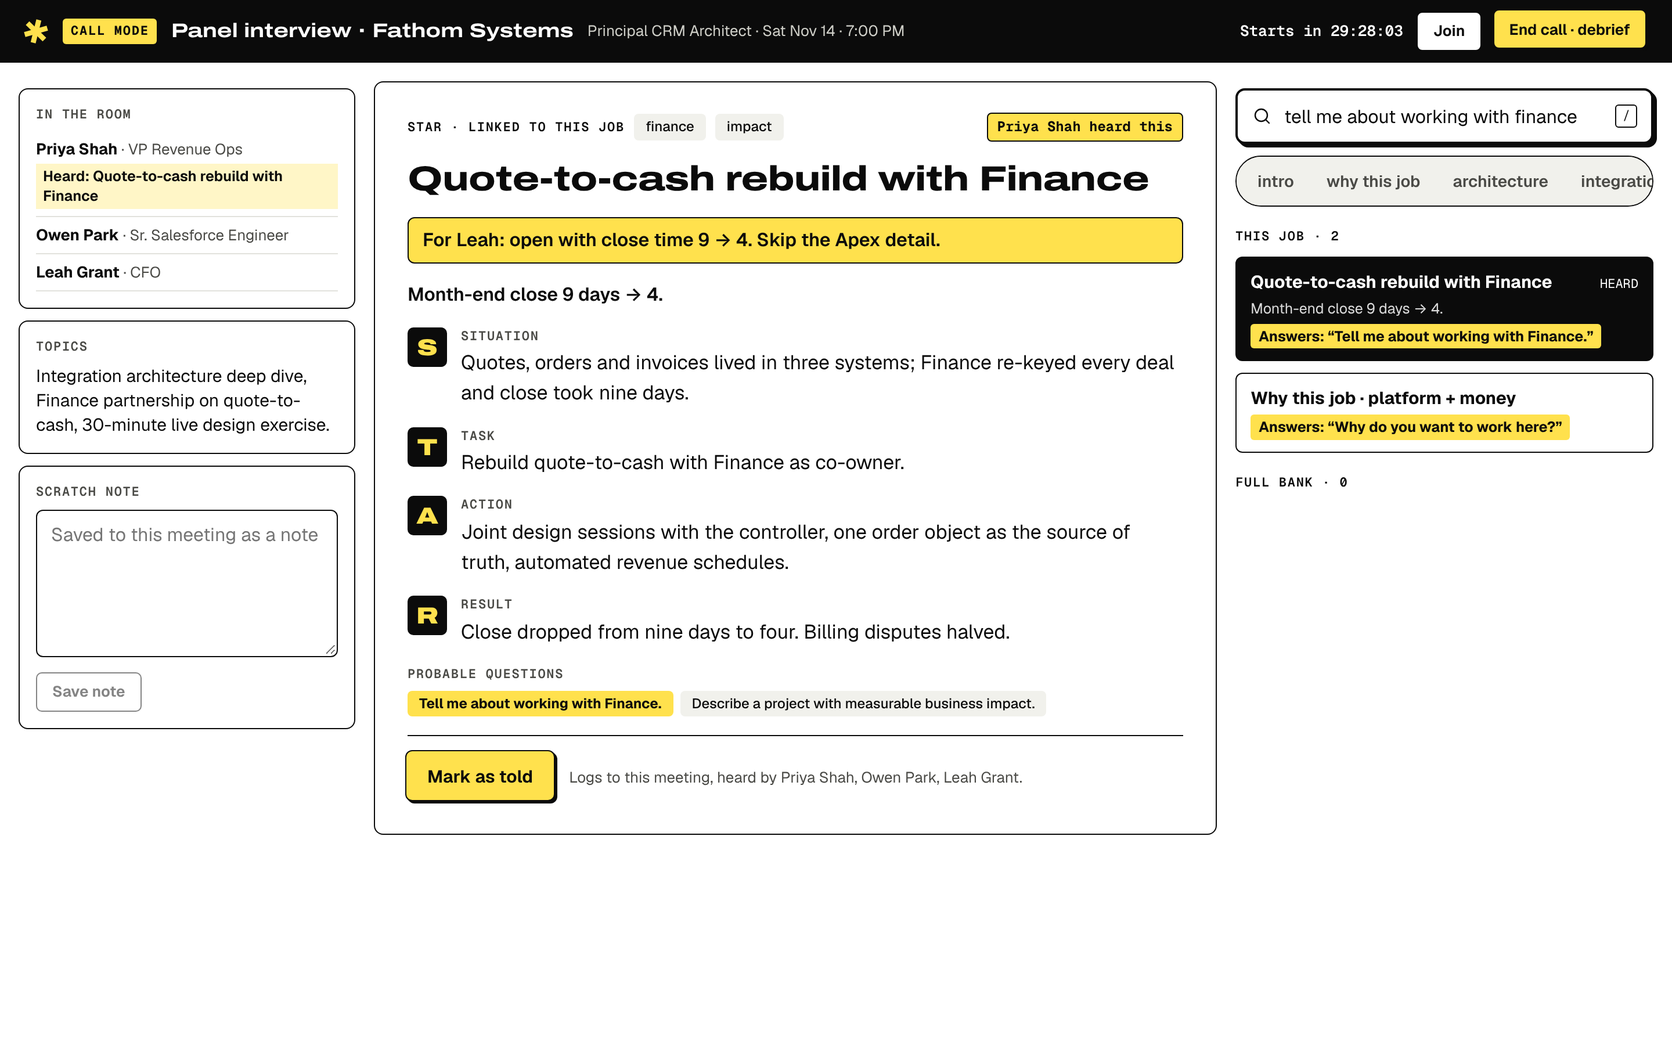
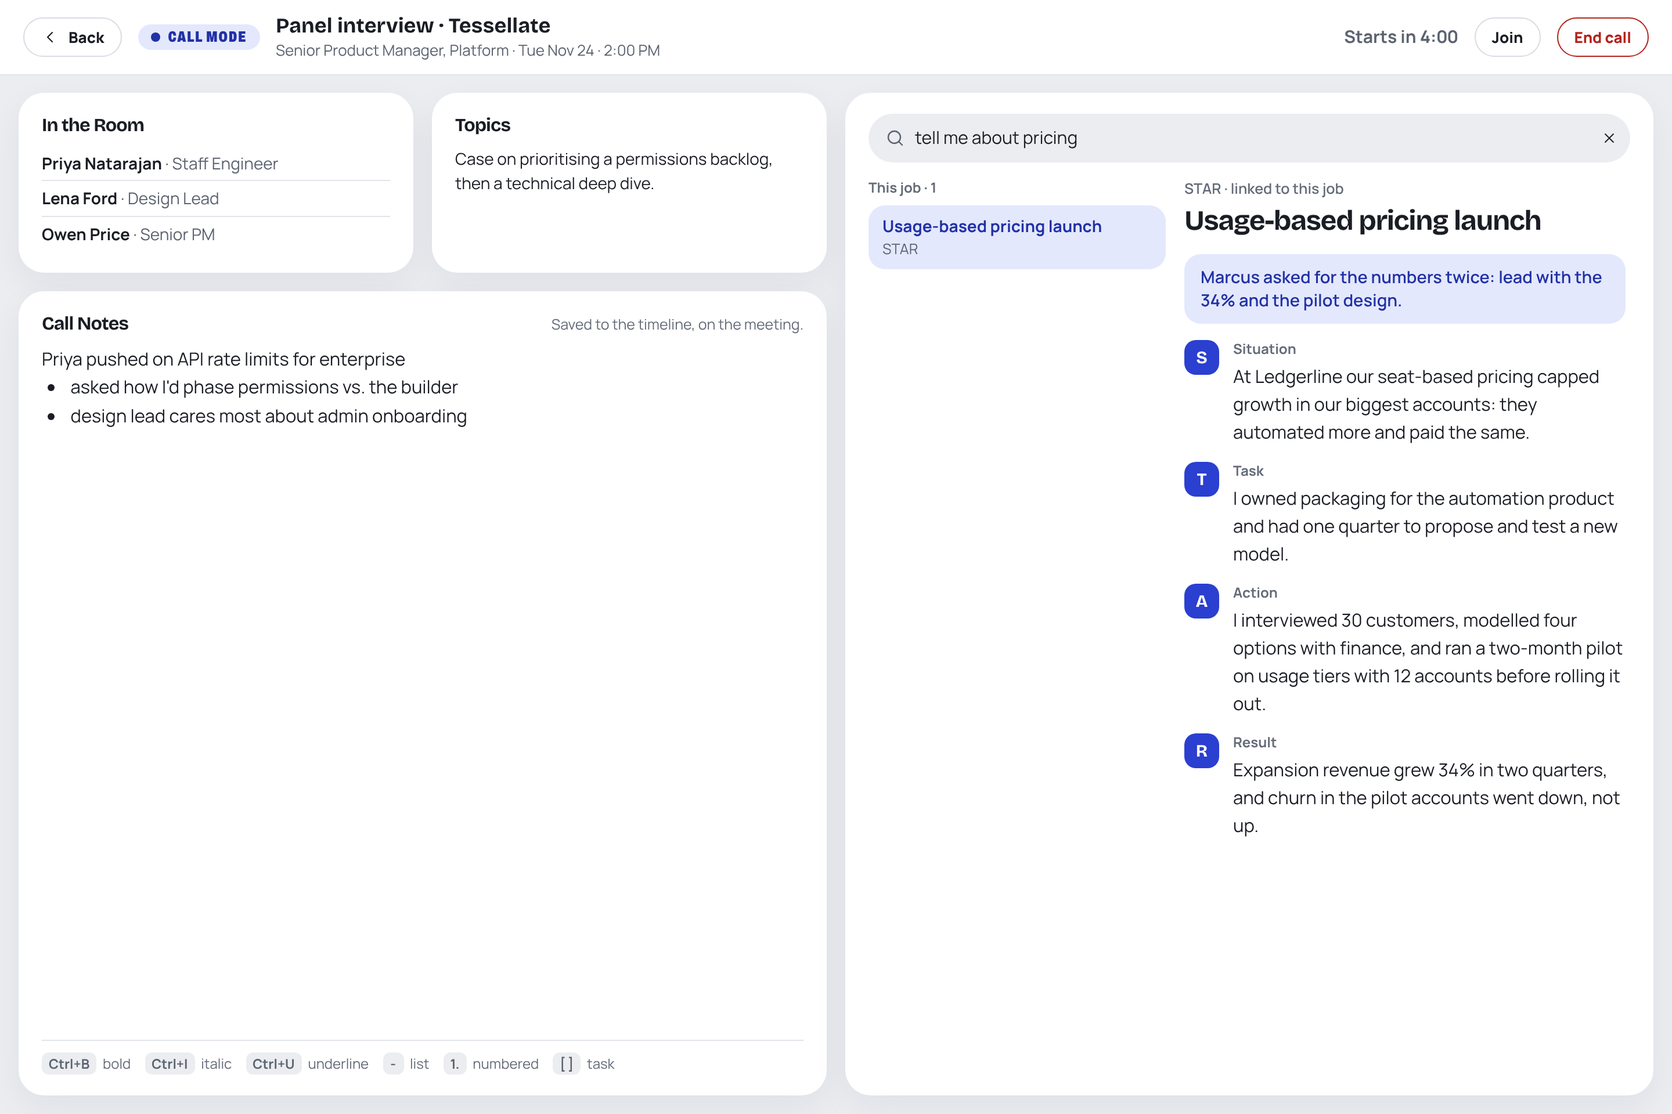
Knock Knock 1.1.1: README and screenshots match the app
Claude-Session: https://claude.ai/code/session_01PCXyg1tRzYfDuk3WCfNfsA

Changed region(s): [[0.0, 0.0, 1.0, 1.0], [0.2188, 0.7156, 0.3438, 0.7778]]

diff --git a/README.md b/README.md
@@ -1,35 +1,47 @@
 # Knock Knock
 
-A job search tracker you host yourself, built for doing the search with an AI assistant. Paste a pile of job links to Claude and they land as applications with the pay, level, reports-to and must-haves filled in. Let it read your inbox and calendar, and each confirmation, scheduling email, rejection and interview invite lands on the right application's timeline, without duplicates. Then, on the call itself, your stories are one search away.
+A job search tracker you host yourself, built for doing the search with an AI assistant. Paste a pile of job links to Claude and they land as jobs with the pay, level, reports-to and must-haves filled in. Let it read your inbox and calendar, and each confirmation, scheduling email, rejection and interview invite lands on the right job's timeline, without duplicates. Then, on the call itself, your stories are one search away.
 
 The app only stores and shows. Your assistant does the reading and the judging over MCP, so there's no AI bill inside the app and nothing scans your mail behind your back.
 
 [![Deploy to Cloudflare](docs/deploy-to-cloudflare.svg)](https://deploy.workers.cloudflare.com/?url=https://github.com/tyler-class/knockknock)
 
-![An application's timeline: an upcoming panel above the NOW line, then emails, meetings with debrief notes, and status changes](docs/screenshots/timeline.png)
+![A job's timeline: the stage bar, an upcoming panel interview with Open Call Mode and Join, then a status change, emails and a held meeting with its call notes underneath](docs/screenshots/timeline.png)
 
-- **Every application is a timeline.** Created, status changes, meetings (with join link, attendees and topics), emails (a summary of what happened, with key points for negotiations) and notes, newest first, with upcoming interviews above the NOW line and debriefs nested under their meeting. Each card says whether you or your assistant logged it.
-- **Status is history, not a field.** Saved → Applied → Screening → Interviewing → Offer → Accepted, or Rejected, Declined or Ghosted, recording the stage it closed from. Every change is an event, so backfilling "they rejected me on the 3rd" lands in the right place and the report counts everything correctly.
-- **A story bank with real frameworks.** STAR, CAR, SOAR, Introduction, Why this job, Why I'm looking, Failure, Weakness, Design decision, or your own. Each story lists the interview questions it answers.
-- **Copies per job.** Linking a story to an application copies it. Tailor the copy and add an angle for this job; the bank only changes if you push. The copy shows when it's in sync, edited, or behind the bank, and you can push, pull or save it as a new story.
-- **Call mode.** A full-screen view to keep beside the video call. Type the question you just heard, and the stories whose probable questions match come up first, with S/T/A/R (or P/P/F) in big type and the angle for this job. Call notes save themselves to the job's timeline as you type (on the meeting) and stay on screen; **End call** asks how it went and saves your reflections as their own note.
-- **Today.** Interviews coming up, offers to decide on, meetings that still need a debrief, applications gone quiet, and ones that look ghosted (only ever suggested).
-- **Report.** A Sankey of where every application went, built from status history, plus response rate, interview rate, median days to first reply and ghost rate, broken down by source and by the resume you sent.
-- **Files.** Resumes, cover letters, transcripts and offer letters in your own private R2 bucket, with a hash of exactly what you sent and a lock so it can't be deleted by accident. Transcripts stay readable for your assistant.
-- **Built for phones.** Install it to your home screen. Notifications for interviews today, follow-ups and debriefs.
+- **Home.** Counts for the search you're in (applications, open, applied this week, interviews this week), what's coming up in the next two weeks, and recent activity across every job.
+- **Every job is a page.** A header with the title, company, work mode, applied date and pay, and a stage bar: Saved → Applied → Screening → Interviewing → Offer → Closed (Accepted, Rejected, Declined or Ghosted). Tabs for Details, Timeline, Stories and Files. Every detail (title, pay, links, requirements, notes, the pasted posting) edits in place where it's shown: tap it, type, and it saves when you press Enter or click away.
+- **Every job has a timeline.** Status changes, meetings (kind, time, join link, attendees, topics), emails (a summary of what happened, with key points for negotiations), notes and files, newest first, with upcoming meetings on top and notes nested under the meeting or email they're about. Tap any entry to open it and edit it in place.
+- **Status is history, not a field.** Every change is an event on the timeline, and the status is whatever the timeline says. Backfilling "they rejected me on the 3rd" lands in the right place, closed jobs remember the stage they closed from, and the report counts everything correctly. Changing a status can be undone from the toast.
+- **Jobs.** A board with a lane per stage on a computer, a list with stage tabs on a phone. Drag cards into your own order within a lane, or onto another lane to change the status. Each card shows the company logo, pay, work mode and source, how long since anything happened, and a highlighted pill only when there's something to act on: an interview coming up, an offer to decide on, a job gone quiet.
+- **Companies and people.** A company is its own record with its website, LinkedIn, headquarters, size, industry, funding and an optional logo, and can have several jobs. People (recruiters, hiring managers, interviewers, referrers) work at a company and can be on any of its jobs.
+- **Stories.** STAR, CAR, SOAR, Introduction, Why this job, Why I'm looking, Failure, Weakness, Design decision, or a framework of your own. A story is its framework's parts. Search by the question you were asked and the stories whose words match come up first.
+- **A copy for each job.** Linking a story to a job copies it, so you can tailor it and add how to angle it for this company without touching the original. The copy says in plain words when you've changed it for this job or the original in Stories has changed since, and offers the one or two actions that fit.
+- **Call Mode.** A full-screen view to keep beside the video call: who's in the room, the topics, call notes that save themselves to the meeting as you type, and a search box. Type the question you just heard and the job's stories, then the rest of Stories, come up with each part in big type and the angle for this job. **End call** asks how it went and saves your reflections as their own note.
+- **Report.** Where every application went (a Sankey built from status history), how many heard back and how many reached interviews and offers, response rate by where you found the job and by which resume you sent, median time to hear back, and how many you applied to each week.
+- **Files.** Resumes, cover letters, transcripts and offer letters in your own private R2 bucket, with a SHA-256 of exactly what you sent. Adding one puts it on the timeline. Transcripts and other text files stay readable for your assistant.
+- **Searches.** One deployment keeps each stretch of job hunting as its own search. Pick the search from the menu at the top of the sidebar; everything but Stories follows it.
+- **Built for phones.** Install it to your home screen. Notifications for interviews today, jobs that have gone quiet, and debriefs to write.
 - **Yours.** It runs on your own Cloudflare account. The free plan is plenty.
 
-![Call mode: search by the question you heard, a story in big S/T/A/R type with the angle for this job, and call notes](docs/screenshots/call-mode.png)
+![Call Mode: who's in the room, the topics, call notes, and a story found by the question just asked, shown part by part with the angle for this job](docs/screenshots/call-mode.png)
 
 One deployment is one person's job search (or many, one after another: searches keep each stretch separate).
 
 ## Screenshots
 
-![The Jobs board: Saved, Applied, Screening, Interviewing and Offer columns, with pay, work mode and the next step on each card](docs/screenshots/pipeline.png)
+![Home: counts for the search, interviews coming up, and recent activity](docs/screenshots/home.png)
 
-![The report: a Sankey of where applications went, rates, and breakdowns by source and resume](docs/screenshots/report.png)
+![A job's Details tab: The Job card with every field editable in place, the Company card and the people on the job](docs/screenshots/job.png)
 
-![Today on a phone: the next interview, an offer to decide, a debrief to write](docs/screenshots/phone-today.png)
+![The Jobs board: Saved, Applied, Screening and Interviewing lanes, with logo, pay, work mode, source and what needs doing on each card](docs/screenshots/jobs.png)
+
+![A company's page: its details, the jobs there and the people who work there](docs/screenshots/company.png)
+
+![Stories: each story with its framework, how many jobs use it, and custom frameworks](docs/screenshots/stories.png)
+
+![The report: applied, heard back, interviews and offers, and a Sankey of where applications went](docs/screenshots/report.png)
+
+<img src="docs/screenshots/phone-timeline.png" width="320" alt="A job's timeline on a phone, with the upcoming panel interview on top">
 
 <!-- kit:readme:start -->
 <!-- Written by the Selfhost Kit (kit/docs/readme-install.md): edit it there. -->
@@ -158,13 +170,13 @@ Once a day your copy tells Knock Knock's developer that it exists: a random id i
 
 ## Connect an AI assistant
 
-Knock Knock includes an [MCP](https://modelcontextprotocol.io) server at `https://<your-knock-knock>/mcp`. Open **Settings → Connect an AI assistant** to copy your URL and see steps for Claude, ChatGPT, Claude Code and others. When an assistant connects, Knock Knock shows a sign-in page; enter your password to approve it. Everything it writes shows **via** its name on the timeline.
+Knock Knock includes an [MCP](https://modelcontextprotocol.io) server at `https://<your-knock-knock>/mcp`. Open **Settings → Connect an AI assistant** to copy your URL and see steps for Claude, ChatGPT, Claude Code and others. When an assistant connects, Knock Knock shows a sign-in page; enter your password to approve it. **Settings → Connect an AI assistant** also lists what's connected and can sign them all out.
 
 ### How the agent flows work
 
 The app never reads your email. Your assistant does (Claude with Gmail and Calendar connected, on a schedule if you like), decides what happened and to which application, and writes it here:
 
-1. **Bulk intake.** Paste a dozen links. For each, the assistant checks `find_applications` by URL, reads the posting, and calls `create_application` with every field it can find (it lists the ones it inferred, like reports-to). They land as **Saved**.
+1. **Bulk intake.** Paste a dozen links. For each, the assistant checks `find_applications` by URL, reads the posting, and calls `create_application` with every field it can find (it lists the ones it inferred, like reports-to). They land as **Saved** in the current search, each linked to its company (made if it's new).
 2. **"Thanks for applying."** The assistant finds the application (`find_applications` by company, domain, URL or a person's email), reads `get_timeline` around that date, logs the email with its Gmail message id as `external_ref`, and calls `set_status` to **Applied** with `caused_by` pointing at the email.
 3. **Interview scheduled.** An email and a calendar invite. If you already typed the meeting in, `get_timeline` shows it and the assistant uses `update_meeting` to add the join link and attendees instead of adding a second card.
 
@@ -172,24 +184,25 @@ The app never reads your email. Your assistant does (Claude with Gmail and Calen
 
 ### Tools
 
-| Tool                                            | What it does                                                                                                        |
-| ----------------------------------------------- | ------------------------------------------------------------------------------------------------------------------- |
-| `search_overview`                               | The current search: counts by status, open applications, upcoming meetings, follow-ups, maybe-ghosted, debriefs due |
-| `get_started`                                   | The search's state plus example requests and ready-made prompts                                                     |
-| `find_applications`                             | Look up by company, title, domain, posting URL or a person's email                                                  |
-| `get_application`                               | Everything about one: fields, people, timeline, stories and their sync state, files                                 |
-| `get_timeline`                                  | Events, optionally only around a date and of some types: read this before logging                                   |
-| `create_application`, `update_application`      | Add a job (returns the existing one for a known URL); change its fields                                             |
-| `set_status`                                    | Change status by writing a status event; on Accepted, lists the other open applications                             |
-| `log_meeting`, `update_meeting`                 | An interview or call: time, kind, state, join link, attendees, topics                                               |
-| `log_email`                                     | An email as a summary, with direction, category and key points                                                      |
-| `add_note`                                      | An internal note, optionally under a meeting (a debrief)                                                            |
-| `update_event`, `delete_event`                  | Fix or remove an event (deleting a status event recomputes the status)                                              |
-| `add_person`                                    | A recruiter, interviewer or referrer on an application                                                              |
-| `list_frameworks`, `list_stories`, `get_story`  | Story frameworks; search the bank by the question being asked                                                       |
-| `create_story`, `update_story`                  | Add or change a bank story                                                                                          |
-| `link_story`, `update_job_story`                | Copy a story to an application, tailor the copy                                                                     |
-| `upload_link`, `add_text_file`, `get_file_text` | A one-time upload link; save a transcript you have as text; read one                                                |
+| Tool                                            | What it does                                                                                                            |
+| ----------------------------------------------- | ----------------------------------------------------------------------------------------------------------------------- |
+| `search_overview`                               | The current search: counts by status, open applications, upcoming meetings, follow-ups due, maybe-ghosted, debriefs due |
+| `get_started`                                   | The search's state plus example requests and ready-made prompts                                                         |
+| `find_applications`                             | Look up by company, title, domain, posting URL or a person's email, in the current search unless `all_searches` is set  |
+| `get_application`                               | Everything about one: posting and company fields, people, timeline, stories, files                                      |
+| `get_timeline`                                  | Events, optionally only around a date and of some types: read this before logging                                       |
+| `create_application`, `update_application`      | Add a job (returns the existing one for a known posting URL); change its fields, including the company's details        |
+| `set_status`                                    | Change status by writing a status event; on Accepted, lists the other open applications                                 |
+| `log_meeting`, `update_meeting`                 | An interview or call: time, kind, state, join link, attendees, topics                                                   |
+| `log_email`                                     | An email as a summary, with direction, category and key points                                                          |
+| `add_note`                                      | A note, optionally under a meeting (a debrief)                                                                          |
+| `update_event`, `delete_event`                  | Fix or remove an event (deleting a status event recomputes the status)                                                  |
+| `add_person`                                    | A recruiter, hiring manager, interviewer, referrer or someone else on a job, at its company                             |
+| `list_frameworks`, `list_stories`, `get_story`  | Story frameworks; search Stories by the question being asked                                                            |
+| `list_archived_stories`                         | Archived stories, which the other tools leave out, and how to bring one back                                            |
+| `create_story`, `update_story`                  | Add or change a story (or archive and unarchive it)                                                                     |
+| `link_story`, `update_job_story`                | Copy a story to a job with an angle for it; tailor the job's copy                                                       |
+| `upload_link`, `add_text_file`, `get_file_text` | A one-time upload link; save a transcript you have as text; read one                                                    |
 
 Ready-made prompts (in Claude, from the **+** menu):
 
@@ -203,7 +216,7 @@ Ready-made prompts (in Claude, from the **+** menu):
 
 ## Back up and restore
 
-**Settings → Backup → Download backup** saves every search, application, timeline, story and file record as one JSON file. **Restore from backup** replaces everything with a backup's contents. The files themselves live in R2; restoring into the same deployment keeps them attached.
+**Settings → Backup → Download backup** saves everything as one JSON file: searches, companies, applications, people, timelines, stories and their job copies, custom frameworks, settings, and every file's details (and the text of text files). **Restore from backup** replaces everything with a backup's contents. The files themselves live in R2; restoring into the same deployment keeps them attached.
 
 ## Deploy by hand
 
@@ -237,12 +250,17 @@ npm run dev
 
 ### How it's built
 
-- **Cloudflare Workers** with static assets. **Hono** serves the API under `/api`. **D1** stores searches, applications, people, timeline events, frameworks, stories, job copies and file metadata; the schema is in `migrations/`.
-- An application's `status` is a cache of its timeline: the newest created or status event (by when it happened) decides it, recomputed on every change (`src/shared/logic/status.ts`).
-- Timeline events share one table; each type's own fields (meeting, email, status) are JSON checked by zod schemas in `src/shared/schemas.ts`. A partial unique index refuses a repeated `external_ref` per application.
-- Story copies remember the bank version and a content hash from when they were copied, which is enough to tell in sync, edited, bank newer or both (`src/shared/logic/stories.ts`). Built-in frameworks live in code; custom ones in D1.
-- **R2** stores files privately under `files/<id>`, served only to signed-in users; text files keep their text for MCP.
-- **React**, **TypeScript**, **Vite**, **TanStack Query** and **React Router**, with a service worker from `vite-plugin-pwa`. Call mode's search is plain word overlap in the browser: instant, and it works offline.
+- **Cloudflare Workers** with static assets. **Hono** serves the API under `/api`. **D1** stores everything; the schema is in `migrations/`:
+  - `searches` group `applications` (jobs). Each job points at its company (`company_id`) and keeps a copy of the company's name and details in its own `company_*` columns, kept in step on every change, so lists, search and assistants read one row. `board_position` is its place within its lane on the Jobs board.
+  - `companies` hold a company's website, LinkedIn, headquarters, size, industry, funding and logo (stored in R2). Several jobs can be at one company; a company name written to a job links it to the company of that name, ignoring case, or makes one.
+  - `people` work at a company (`company_id`), with a role (`recruiter`, `hiring_manager`, `interviewer`, `referrer` or `other`, with `other_role` in their own words). `job_people` says which of its jobs each person is on. Deleting a job leaves its people at the company.
+  - `events` are the timeline: one table for created, status, meeting, email and note events. Each type's own fields are JSON checked by zod schemas in `src/shared/schemas.ts`. A partial unique index refuses a repeated `external_ref` per job.
+  - `stories` and `job_stories` (each job's copies), `frameworks` (custom ones; the built-in frameworks live in code) and `files` (metadata, hash and kept text; the bytes are in R2).
+- A job's `status` is a cache of its timeline: the newest created or status event (by when it happened) decides it, recomputed on every change (`src/shared/logic/status.ts`).
+- Story copies remember the original's version and a content hash from when they were copied, which is enough to tell whether the copy, the original, or both have changed since (`src/shared/logic/stories.ts`). Stories are searched by title, framework name and the parts' text.
+- Report numbers come from `src/shared/logic/report.ts`. "Heard back" means a job moved past Applied or was rejected; time to hear back runs from applying to the first such change.
+- **R2** stores files privately under `files/<id>` and logos under `logos/<id>`, served only to signed-in users.
+- **React**, **TypeScript**, **Vite**, **TanStack Query** and **React Router**, with a service worker from `vite-plugin-pwa`. Call Mode's search runs in the browser: instant, and it works offline.
 - AI assistants connect over MCP with OAuth 2.1 (`@cloudflare/workers-oauth-provider`). MCP tools call the same API as the app, so validation and the duplicate rule are shared.
 
 ## Why "Knock Knock"?
